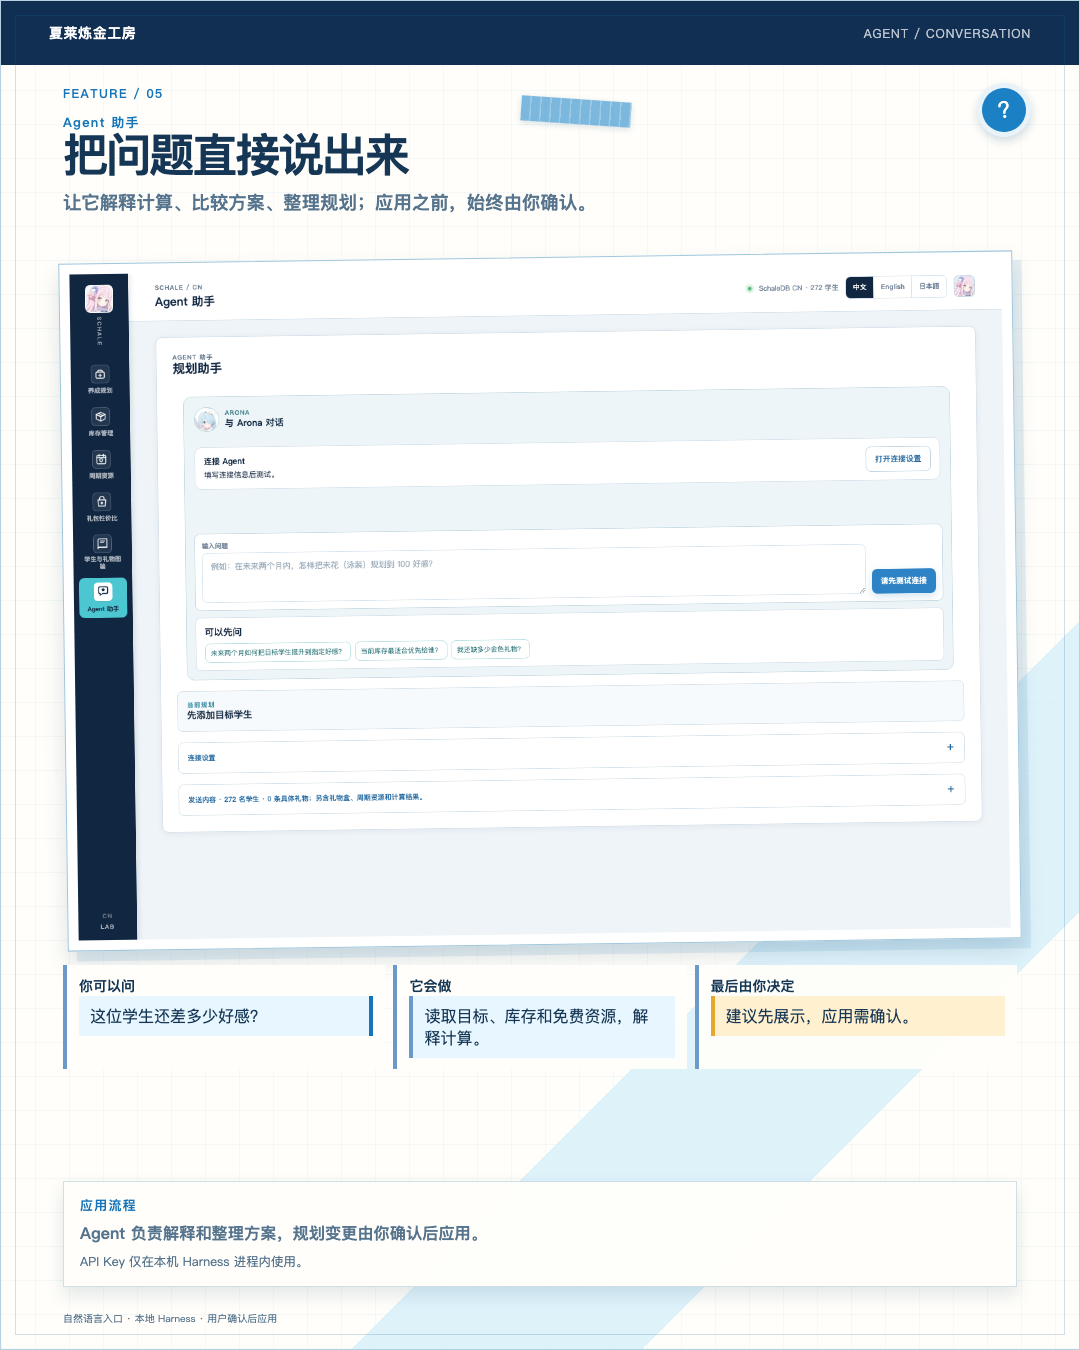
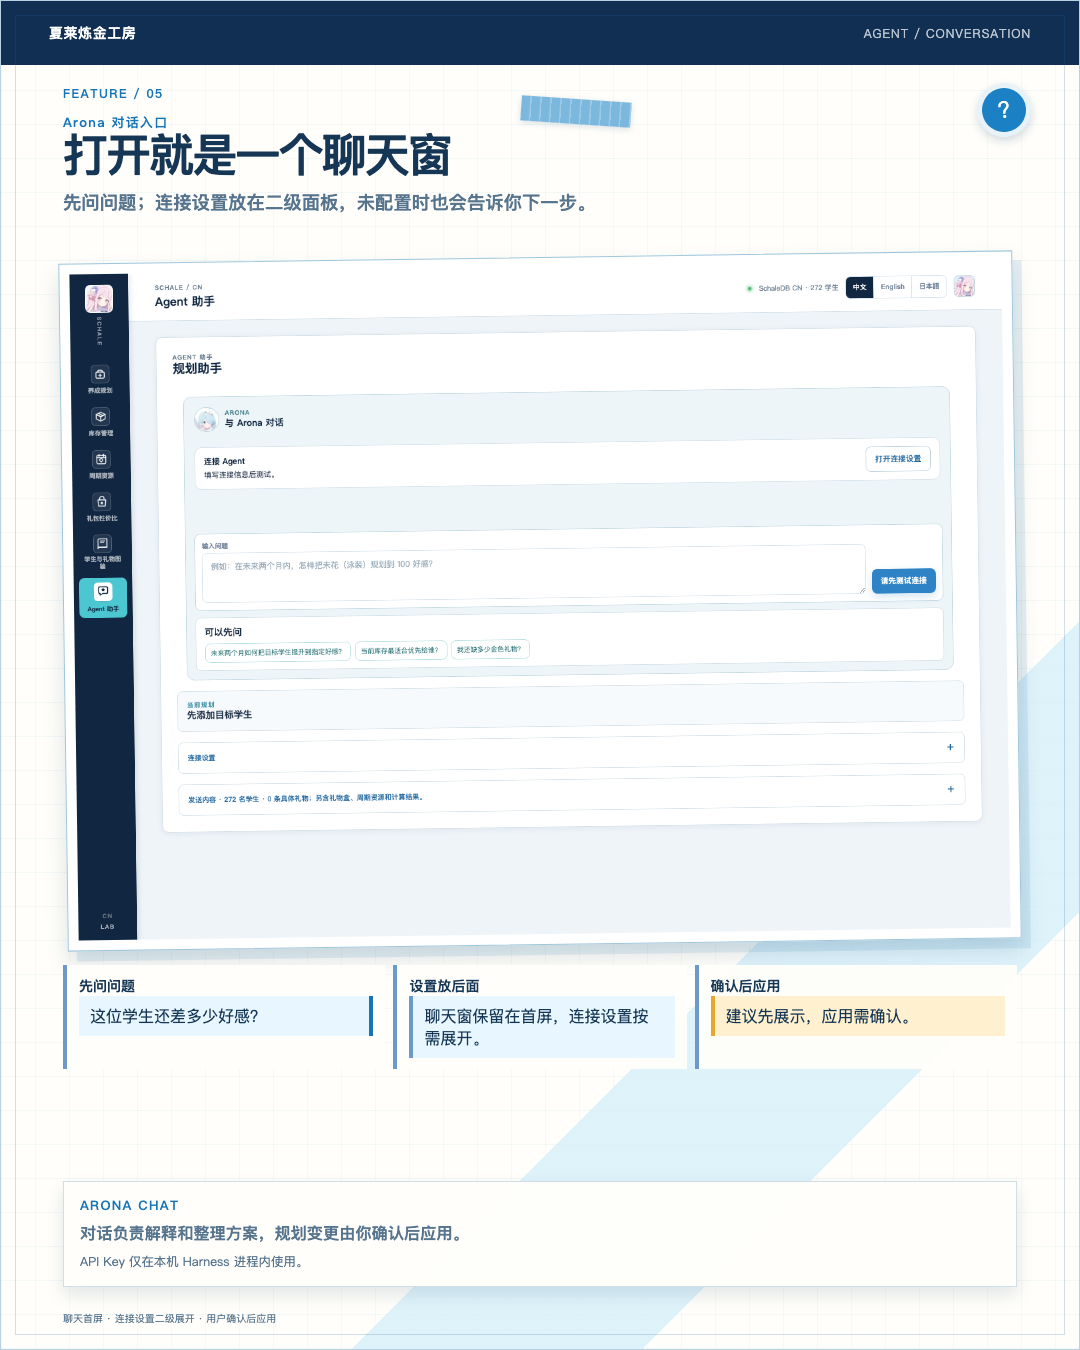
docs: align agent showcase with chat-first UI

diff --git a/docs/promotion/scrapbook/preview.html b/docs/promotion/scrapbook/preview.html
@@ -264,10 +264,10 @@
 
     <section class="sheet feature agent" id="agent">
       <div class="topbar"><strong>夏莱炼金工房</strong><span>AGENT / CONVERSATION</span></div><div class="page-tag">FEATURE / 05</div><span class="tape"></span><span class="sticker">?</span>
-      <div class="feature-head"><p class="eyebrow">Agent 助手</p><h2>把问题直接说出来</h2><p class="lead">让它解释计算、比较方案、整理规划；应用之前，始终由你确认。</p></div>
+      <div class="feature-head"><p class="eyebrow">Arona 对话入口</p><h2>打开就是一个聊天窗</h2><p class="lead">先问问题；连接设置放在二级面板，未配置时也会告诉你下一步。</p></div>
       <div class="screen"><img src="screens/agent.png" alt="Agent 助手页面截图"></div>
-      <div class="info-strip"><div class="info-card"><strong>你可以问</strong><div class="bubble user">这位学生还差多少好感？</div></div><div class="info-card"><strong>它会做</strong><div class="bubble answer">读取目标、库存和免费资源，解释计算。</div></div><div class="info-card"><strong>最后由你决定</strong><div class="bubble confirm">建议先展示，应用需确认。</div></div></div>
-      <div class="paper feature-note"><p class="eyebrow">应用流程</p><p class="lead">Agent 负责解释和整理方案，规划变更由你确认后应用。</p><p class="fine">API Key 仅在本机 Harness 进程内使用。</p></div><p class="footer">自然语言入口 · 本地 Harness · 用户确认后应用</p>
+      <div class="info-strip"><div class="info-card"><strong>先问问题</strong><div class="bubble user">这位学生还差多少好感？</div></div><div class="info-card"><strong>设置放后面</strong><div class="bubble answer">聊天窗保留在首屏，连接设置按需展开。</div></div><div class="info-card"><strong>确认后应用</strong><div class="bubble confirm">建议先展示，应用需确认。</div></div></div>
+      <div class="paper feature-note"><p class="eyebrow">ARONA CHAT</p><p class="lead">对话负责解释和整理方案，规划变更由你确认后应用。</p><p class="fine">API Key 仅在本机 Harness 进程内使用。</p></div><p class="footer">聊天首屏 · 连接设置二级展开 · 用户确认后应用</p>
     </section>
   </main>
   <script src="export.js"></script>
